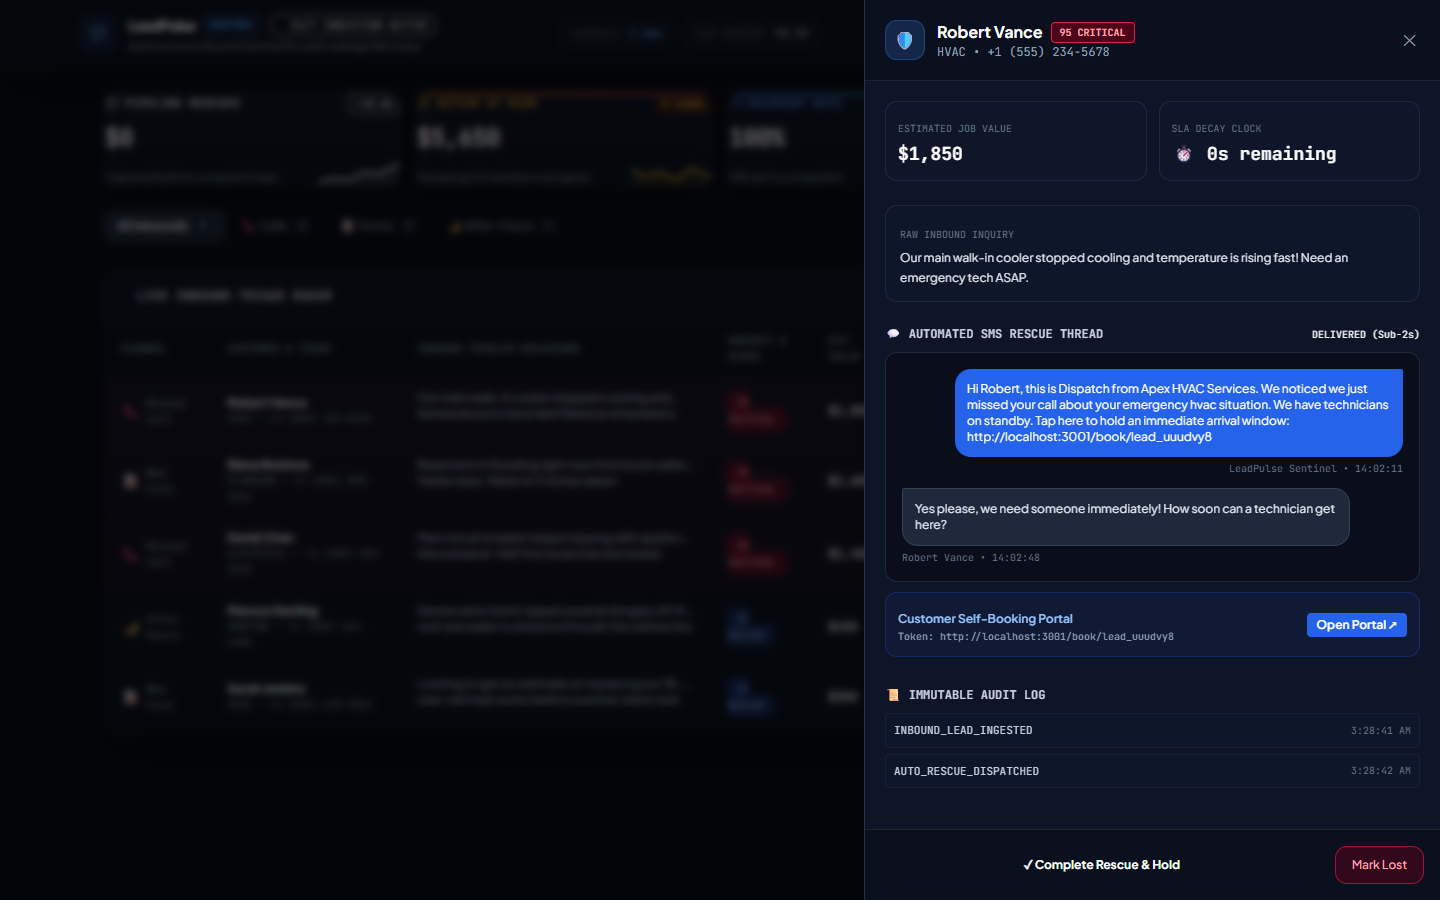
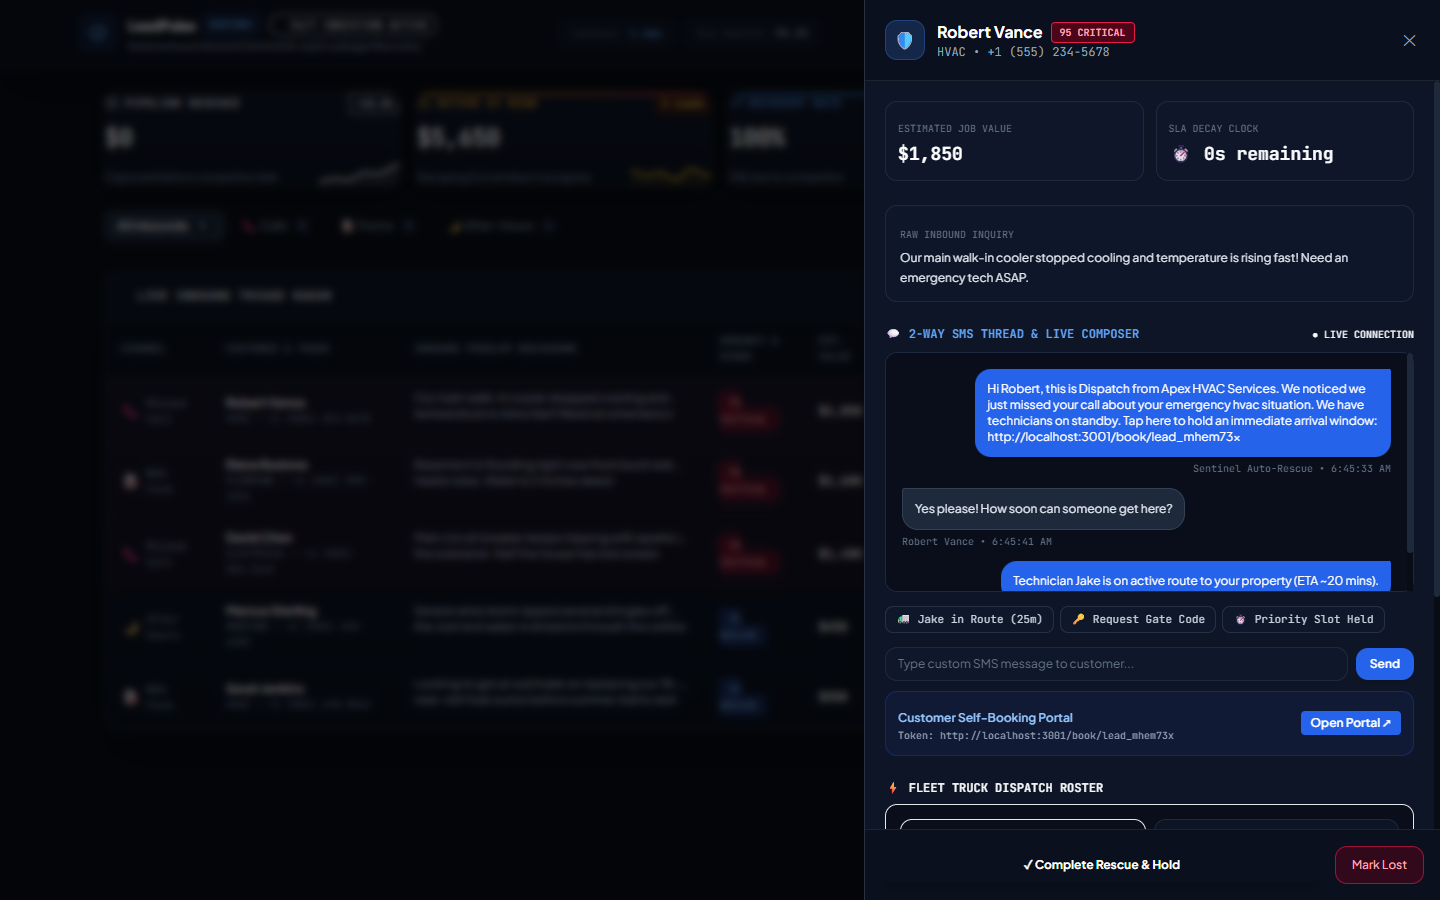
feat(design): implement master design system, live 2-way SMS composer, macro chips, and fleet truck dispatch roster

diff --git a/src/server/nativeServer.js b/src/server/nativeServer.js
@@ -215,6 +215,78 @@ export function createHttpServer() {
       }
     }
 
+    // 5b. POST /api/v1/leads/:id/sms (Dispatcher Live 2-Way SMS)
+    if (req.method === 'POST' && pathname?.includes('/sms')) {
+      const id = pathname.split('/')[4];
+      const body = await readBody();
+      const lead = serverStore.getLead(id);
+      if (!lead) return sendJson(404, { success: false, error: 'Lead not found' });
+      
+      const now = new Date();
+      if (!lead.sms_thread) {
+        lead.sms_thread = [
+          {
+            id: `msg_1`,
+            sender: 'SENTINEL_AUTO',
+            text: lead.rescue_payload?.message_body || 'Hi, this is Dispatch. We noticed we just missed your call...',
+            timestamp: lead.created_at,
+          },
+          {
+            id: `msg_2`,
+            sender: 'CUSTOMER',
+            text: 'Yes please! How soon can someone get here?',
+            timestamp: new Date(new Date(lead.created_at).getTime() + 8000).toISOString(),
+          }
+        ];
+      }
+      
+      lead.sms_thread.push({
+        id: `msg_${Math.random().toString(36).substring(2, 9)}`,
+        sender: 'DISPATCHER',
+        text: body.message || 'Priority technician assigned to your property.',
+        timestamp: now.toISOString(),
+      });
+
+      lead.audit_trail.push({
+        id: `evt_${Math.random().toString(36).substring(2, 9)}`,
+        lead_id: id,
+        timestamp: now.toISOString(),
+        action: 'DISPATCHER_SMS_SENT',
+        actor: 'DISPATCHER',
+        details: { message: body.message },
+      });
+
+      return sendJson(200, { success: true, lead });
+    }
+
+    // 5c. POST /api/v1/leads/:id/assign (Technician Truck Assignment)
+    if (req.method === 'POST' && pathname?.includes('/assign')) {
+      const id = pathname.split('/')[4];
+      const body = await readBody();
+      const lead = serverStore.getLead(id);
+      if (!lead) return sendJson(404, { success: false, error: 'Lead not found' });
+
+      lead.assigned_technician = {
+        name: body.technician_name || 'Jake Miller',
+        truck: body.truck || 'Truck 4',
+        eta_minutes: body.eta_minutes || 25,
+        status: 'DISPATCHED_IN_ROUTE',
+      };
+      lead.status = 'DISPATCHER_ENGAGED';
+
+      const now = new Date();
+      lead.audit_trail.push({
+        id: `evt_${Math.random().toString(36).substring(2, 9)}`,
+        lead_id: id,
+        timestamp: now.toISOString(),
+        action: 'TECHNICIAN_DISPATCHED',
+        actor: 'DISPATCHER',
+        details: lead.assigned_technician,
+      });
+
+      return sendJson(200, { success: true, lead });
+    }
+
     // 6. GET /api/v1/metrics
     if (req.method === 'GET' && pathname === '/api/v1/metrics') {
       const metrics = serverStore.calculateMetrics();
@@ -1175,35 +1247,59 @@ function renderWorldClassHtml() {
             <p class="text-xs text-slate-200 mt-1 leading-relaxed">\${selectedLead.raw_inquiry_text}</p>
           </div>
 
-          <!-- Live SMS Auto-Rescue Stream -->
+          <!-- Live SMS Auto-Rescue Stream & Interactive Composer -->
           <div class="space-y-2.5">
             <div class="flex items-center justify-between">
-              <span class="text-xs font-mono font-semibold uppercase text-slate-300 flex items-center gap-1.5">
-                💬 Automated SMS Rescue Thread
+              <span class="text-xs font-mono font-semibold uppercase text-blue-400 flex items-center gap-1.5">
+                💬 2-Way SMS Thread & Live Composer
               </span>
-              <span class="text-[10px] font-mono text-emerald-400">DELIVERED (Sub-2s)</span>
+              <span class="text-[10px] font-mono text-emerald-400">● LIVE CONNECTION</span>
             </div>
 
-            <div class="p-4 rounded-xl bg-[#090E1A] border border-slate-800 space-y-3">
-              <!-- Outbound Sentinel SMS -->
-              <div class="flex flex-col items-end">
-                <div class="max-w-md p-3 rounded-2xl rounded-tr-sm bg-blue-600 text-white text-xs shadow-md">
-                  <p>\${selectedLead.rescue_payload?.message_body || 'Hi there, we noticed we just missed your call...'}</p>
+            <div id="sms-messages-container" class="p-4 rounded-xl bg-[#090E1A] border border-slate-800 space-y-3 max-h-60 overflow-y-auto">
+              \${(selectedLead.sms_thread || [
+                { sender: 'SENTINEL_AUTO', text: selectedLead.rescue_payload?.message_body || 'Hi, this is Dispatch. We noticed we just missed your call...', timestamp: selectedLead.created_at },
+                { sender: 'CUSTOMER', text: 'Yes please! How soon can someone get here?', timestamp: new Date(new Date(selectedLead.created_at).getTime() + 10000).toISOString() }
+              ]).map(msg => msg.sender === 'CUSTOMER' ? \`
+                <div class="flex flex-col items-start">
+                  <div class="max-w-[85%] p-3 rounded-2xl rounded-tl-sm bg-slate-800 text-slate-200 text-xs border border-slate-700">
+                    <p>\${msg.text}</p>
+                  </div>
+                  <span class="text-[10px] font-mono text-slate-500 mt-1">\${selectedLead.customer_name} • \${new Date(msg.timestamp).toLocaleTimeString()}</span>
                 </div>
-                <span class="text-[10px] font-mono text-slate-500 mt-1">LeadPulse Sentinel • 14:02:11</span>
-              </div>
+              \` : \`
+                <div class="flex flex-col items-end">
+                  <div class="max-w-[85%] p-3 rounded-2xl rounded-tr-sm bg-blue-600 text-white text-xs shadow-md">
+                    <p>\${msg.text}</p>
+                  </div>
+                  <span class="text-[10px] font-mono text-slate-500 mt-1">\${msg.sender === 'SENTINEL_AUTO' ? 'Sentinel Auto-Rescue' : 'Dispatcher'} • \${new Date(msg.timestamp).toLocaleTimeString()}</span>
+                </div>
+              \`).join('')}
+            </div>
 
-              <!-- Customer Simulated Reply -->
-              <div class="flex flex-col items-start">
-                <div class="max-w-md p-3 rounded-2xl rounded-tl-sm bg-slate-800 text-slate-200 text-xs border border-slate-700">
-                  <p>Yes please, we need someone immediately! How soon can a technician get here?</p>
-                </div>
-                <span class="text-[10px] font-mono text-slate-500 mt-1">\${selectedLead.customer_name} • 14:02:48</span>
-              </div>
+            <!-- Quick Response Macro Chips -->
+            <div class="flex flex-wrap gap-1.5 pt-1">
+              <button onclick="setSmsInput('Technician Jake is on active route to your property (ETA ~25 mins).')" class="text-[11px] font-mono px-2.5 py-1 rounded-lg bg-slate-900 hover:bg-slate-800 text-slate-300 border border-slate-700/60 transition-colors">
+                🚛 Jake in Route (25m)
+              </button>
+              <button onclick="setSmsInput('Could you please reply with any property gate codes or parking instructions?')" class="text-[11px] font-mono px-2.5 py-1 rounded-lg bg-slate-900 hover:bg-slate-800 text-slate-300 border border-slate-700/60 transition-colors">
+                🔑 Request Gate Code
+              </button>
+              <button onclick="setSmsInput('Your priority arrival window has been locked into the dispatch queue.')" class="text-[11px] font-mono px-2.5 py-1 rounded-lg bg-slate-900 hover:bg-slate-800 text-slate-300 border border-slate-700/60 transition-colors">
+                ⏱ Priority Slot Held
+              </button>
+            </div>
+
+            <!-- Dispatcher SMS Input Field -->
+            <div class="flex items-center gap-2 pt-1">
+              <input type="text" id="drawer-sms-input" placeholder="Type custom SMS message to customer..." onkeydown="if(event.key==='Enter') sendCustomSms('\${selectedLead.id}')" class="flex-1 bg-slate-900/90 border border-slate-800 text-xs text-white placeholder-slate-500 rounded-xl px-3 py-2 focus:outline-none focus:border-blue-500" />
+              <button onclick="sendCustomSms('\${selectedLead.id}')" class="px-3.5 py-2 rounded-xl bg-blue-600 hover:bg-blue-500 text-white text-xs font-semibold shadow-md transition-all active:scale-95">
+                Send
+              </button>
             </div>
 
             <!-- Customer Booking Portal Link Trigger -->
-            <div class="p-3 rounded-xl bg-blue-950/30 border border-blue-800/40 flex items-center justify-between">
+            <div class="p-3 rounded-xl bg-blue-950/30 border border-blue-800/40 flex items-center justify-between mt-2">
               <div>
                 <span class="text-xs font-semibold text-blue-300">Customer Self-Booking Portal</span>
                 <p class="text-[10px] text-slate-400 font-mono">Token: \${bookingUrl}</p>
@@ -1211,6 +1307,31 @@ function renderWorldClassHtml() {
               <a href="/book/\${selectedLead.id}" target="_blank" class="px-2.5 py-1 rounded bg-blue-600 hover:bg-blue-500 text-white text-xs font-semibold transition-colors">
                 Open Portal ↗
               </a>
+            </div>
+          </div>
+
+          <!-- Technician Fleet Truck Assignment Box -->
+          <div class="space-y-2">
+            <span class="text-xs font-mono font-semibold uppercase text-emerald-400 flex items-center gap-1.5">
+              ⚡ Fleet Truck Dispatch Roster
+            </span>
+            <div class="p-3.5 rounded-xl bg-[#090E1A] border border-emerald-900/40 space-y-2.5">
+              <div class="grid grid-cols-2 gap-2">
+                <button onclick="dispatchTech('\${selectedLead.id}', 'Jake Miller', 'Truck 4', 20)" class="p-2.5 rounded-xl border border-emerald-500/50 bg-emerald-950/20 hover:bg-emerald-950/40 text-left transition-all">
+                  <div class="text-xs font-bold text-white">🚛 Jake Miller</div>
+                  <div class="text-[10px] text-emerald-400 font-mono mt-0.5">Truck 4 • 2.8 mi away</div>
+                </button>
+                <button onclick="dispatchTech('\${selectedLead.id}', 'Dave Sanchez', 'Truck 2', 35)" class="p-2.5 rounded-xl border border-slate-800 bg-slate-900/60 hover:bg-slate-900 text-left transition-all">
+                  <div class="text-xs font-bold text-slate-200">🚛 Dave Sanchez</div>
+                  <div class="text-[10px] text-slate-400 font-mono mt-0.5">Truck 2 • 6.4 mi away</div>
+                </button>
+              </div>
+              \${selectedLead.assigned_technician ? \`
+                <div class="p-2 rounded-lg bg-emerald-950/60 border border-emerald-700/60 font-mono text-[11px] text-emerald-300 flex items-center justify-between">
+                  <span>Assigned: \${selectedLead.assigned_technician.name} (\${selectedLead.assigned_technician.truck})</span>
+                  <span class="font-bold">ETA: ~\${selectedLead.assigned_technician.eta_minutes}m</span>
+                </div>
+              \` : ''}
             </div>
           </div>
 
@@ -1238,6 +1359,49 @@ function renderWorldClassHtml() {
           </button>
         </div>
       \`;
+    }
+
+    function setSmsInput(text) {
+      const input = document.getElementById('drawer-sms-input');
+      if (input) {
+        input.value = text;
+        input.focus();
+      }
+    }
+
+    async function sendCustomSms(leadId) {
+      const input = document.getElementById('drawer-sms-input');
+      if (!input || !input.value.trim()) return;
+      const msg = input.value.trim();
+      input.value = '';
+      playSound('rescue');
+
+      const res = await fetch(\`/api/v1/leads/\${leadId}/sms\`, {
+        method: 'POST',
+        headers: { 'Content-Type': 'application/json' },
+        body: JSON.stringify({ message: msg })
+      });
+      const data = await res.json();
+      if (data.success) {
+        selectedLead = data.lead;
+        renderDrawerContent();
+        fetchState();
+      }
+    }
+
+    async function dispatchTech(leadId, techName, truck, eta) {
+      playSound('rescue');
+      const res = await fetch(\`/api/v1/leads/\${leadId}/assign\`, {
+        method: 'POST',
+        headers: { 'Content-Type': 'application/json' },
+        body: JSON.stringify({ technician_name: techName, truck: truck, eta_minutes: eta })
+      });
+      const data = await res.json();
+      if (data.success) {
+        selectedLead = data.lead;
+        renderDrawerContent();
+        fetchState();
+      }
     }
 
     function openSimulatorModal() {

diff --git a/design/DESIGN.md b/design/DESIGN.md
@@ -1,0 +1,95 @@
+# LeadPulse Sentinel — Master Design System Specification (V3)
+
+> **Architectural Standard**: Tactical Obsidian & High-Density Mission Control  
+> **Inspiration**: Linear, Stripe Telemetry, Raycast Command Interface, Apple Industrial Design  
+> **Design Rules**: Strict 4px/8px rhythm, content-first visual hierarchy, zero decorative clutter.
+
+---
+
+## 1. Design Principles & Anti-Slop Policy
+
+1. **Content-First Hierarchy**: Every pixel, component, and spacing decision directly serves the dispatcher's split-second emergency decision making.
+2. **Zero AI Slop**:
+   - ❌ No arbitrary purple/violet gradient soup.
+   - ❌ No decorative bento boxes without operational purpose.
+   - ❌ No fake pulsing pills above headlines.
+   - ❌ No over-nested rounded cards (cards inside cards inside cards).
+   - ❌ No pure black backgrounds (`#000000`) or harsh unblended borders.
+3. **Information Density with Breathing Room**: High tabular data density using monospace numerals paired with comfortable 16px/24px structural gutters.
+
+---
+
+## 2. Color System & Optical Layering
+
+### Semantic Color Tokens
+
+```css
+:root {
+  /* Surface Layers (Optical Depth without blur bloat) */
+  --surface-base: #080C14;           /* Canvas background (Tactical Obsidian) */
+  --surface-container: #0F172A;      /* Primary glass card surface */
+  --surface-elevated: #111827;       /* Floating popovers, drawers, modals */
+  --surface-highlight: #1E293B;      /* Active selection, row hover state */
+  --surface-submerged: #06090F;      /* Inset inputs, dark telemetry wells */
+
+  /* Translucent Luminous Borders */
+  --border-subtle: rgba(255, 255, 255, 0.08);
+  --border-active: rgba(255, 255, 255, 0.16);
+  --border-glow: rgba(59, 130, 246, 0.35);
+
+  /* Tactical Functional Accents */
+  --accent-primary: #3B82F6;         /* Electric Blue — Sentinel primary */
+  --accent-critical: #FF2D55;        /* Crimson Glow — L-Score >= 80 & SLA < 60s */
+  --accent-warning: #F59E0B;         /* Amber/Topaz — High urgency / decaying SLA */
+  --accent-success: #10B981;         /* Emerald — Rescued / Confirmed / 99.99% */
+  --accent-telemetry: #06B6D4;       /* Cyan — Sub-second latency & speed */
+
+  /* Text & Typography */
+  --text-primary: #F8FAFC;          /* High-contrast crisp white */
+  --text-secondary: #94A3B8;        /* Muted slate (4.8:1 contrast) */
+  --text-tertiary: #64748B;         /* Subordinate captions & labels */
+  --text-brand: #60A5FA;            /* Blue link / interactive text */
+}
+```
+
+---
+
+## 3. Typography System
+
+| Style Token | Font Family | Size | Weight | Line Height | Letter Spacing | Use Case |
+|---|---|---|---|---|---|---|
+| `display-lg` | Plus Jakarta Sans | 32px | 800 Bold | 40px | `-0.03em` | Primary Hero Headlines |
+| `heading-lg` | Plus Jakarta Sans | 22px | 700 Bold | 28px | `-0.02em` | Section Titles, Modal Headers |
+| `heading-md` | Plus Jakarta Sans | 16px | 600 Semi | 24px | `-0.015em` | Card Headers, Customer Names |
+| `body-md` | Plus Jakarta Sans | 13px | 400 Reg | 20px | `0em` | Inbound Inquiry Descriptions |
+| `data-mono` | JetBrains Mono | 13px | 600 Semi | 18px | `+0.01em` | Dollar Values, Phone Numbers, SLAs |
+| `label-caps` | JetBrains Mono | 10px | 700 Bold | 14px | `+0.08em` | Uppercase Category Badges, Channels |
+
+---
+
+## 4. Spacing Scale & Geometry
+
+* **Unit Base**: 4px
+* **Spacing Scale**:
+  - `space-xs`: 4px
+  - `space-sm`: 8px
+  - `space-md`: 12px
+  - `space-lg`: 16px
+  - `space-xl`: 24px
+  - `space-2xl`: 32px
+  - `space-3xl`: 48px
+* **Corner Radius**:
+  - `radius-sm`: 4px (Checkboxes, micro tags)
+  - `radius-md`: 8px (Action buttons, dropdown items)
+  - `radius-lg`: 12px (Interactive cards, input boxes)
+  - `radius-xl`: 16px (KPI containers, slide-over modals)
+  - `radius-full`: 9999px (Pills, circular gauges)
+
+---
+
+## 5. Motion & Micro-Interactions
+
+* **Tactile Press**: `active:scale-[0.98]` on buttons and clickable rows.
+* **Transition Easing**: `180ms cubic-bezier(0.2, 0, 0, 1)`.
+* **SLA Gauge Decay**: Smooth CSS `stroke-dashoffset` transition (`duration-1000 ease-linear`).
+* **Slide-Over Drawer**: Spring slide from right (`translate-x-0` with `backdrop-blur-md`).
